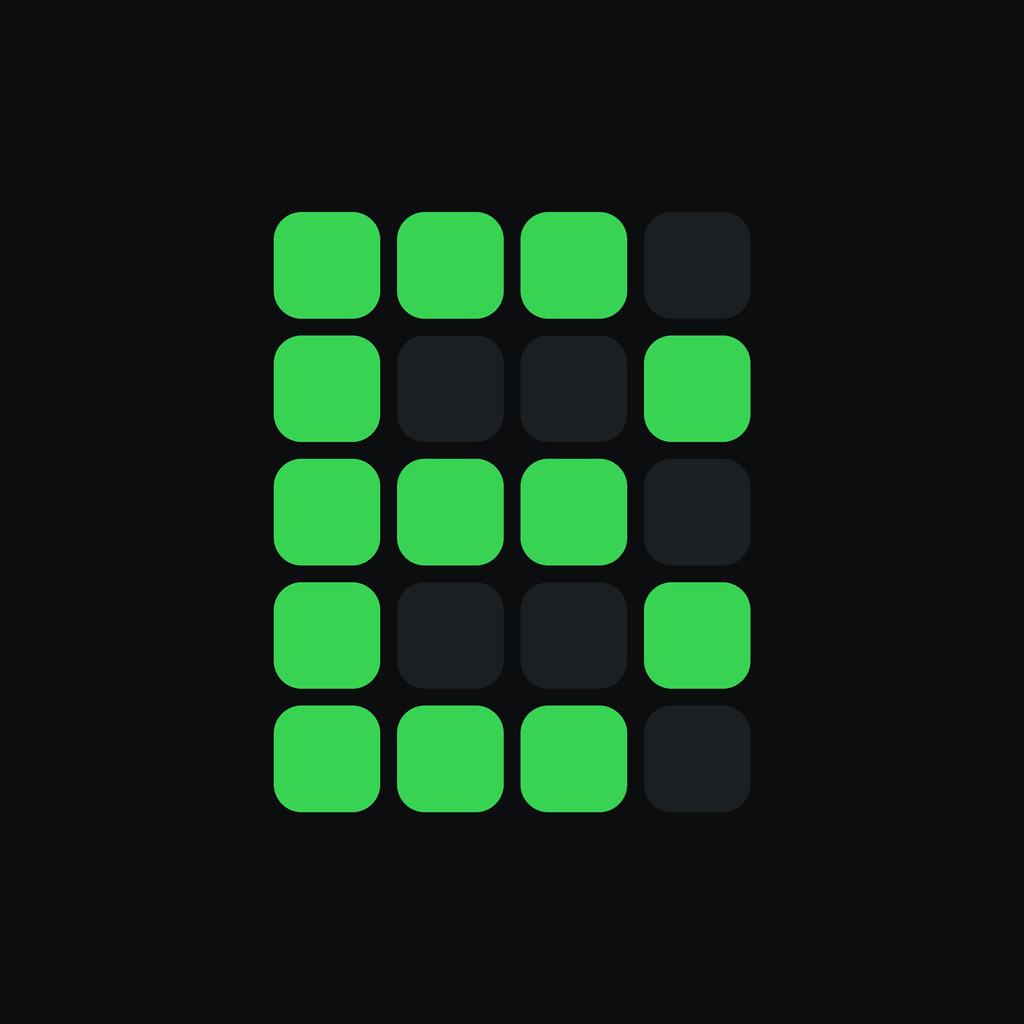
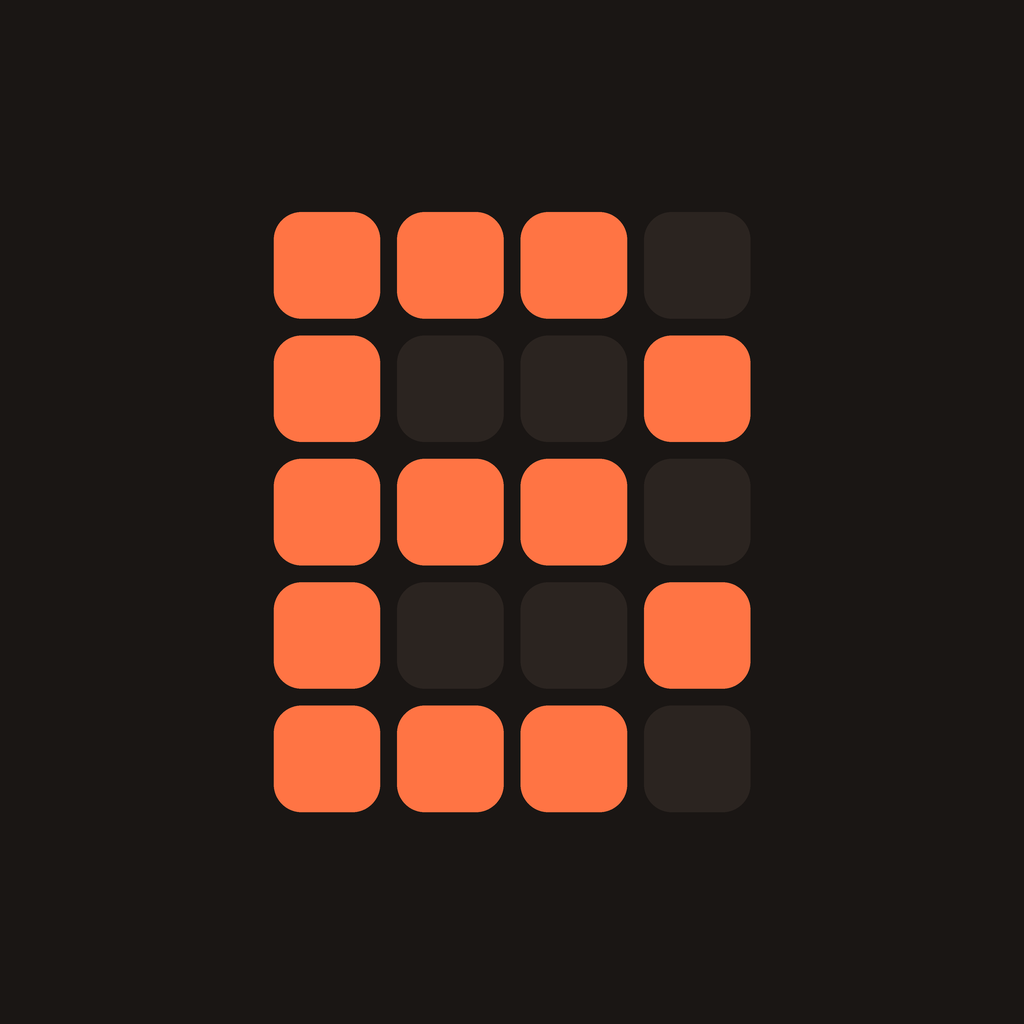
Switch to Ember warm palette

Changed region(s): [[0.25, 0.1875, 0.625, 0.8125], [0.625, 0.5625, 0.75, 0.6875], [0.625, 0.3125, 0.75, 0.4375]]

diff --git a/src/app/(tabs)/index.tsx b/src/app/(tabs)/index.tsx
@@ -86,7 +86,6 @@ function Overview({ data, period, onPeriod }: { data: Data; period: Period; onPe
             textColor={color.text}
             mutedColor={color.muted}
             gridColor={color.line}
-            accentColor={color.accent}
             modifiers={[fillMaxWidth(), height(224), padding(space.page, 24, space.page, 0)]}
           />
           <Row horizontalArrangement={{ spacedBy: 16 }} modifiers={[padding(space.page, 4, space.page, 0)]}>
@@ -113,12 +112,12 @@ function Overview({ data, period, onPeriod }: { data: Data; period: Period; onPe
             textColor={color.text}
             mutedColor={color.muted}
             gridColor={color.line}
-            accentColor={color.accent}
+            incomeColor={color.income}
             modifiers={[fillMaxWidth(), height(184), padding(space.page, 0, space.page, 0)]}
           />
           <Row horizontalArrangement={{ spacedBy: 16 }} modifiers={[padding(space.page, 4, space.page, 0)]}>
             <LegendKey label="Spent" />
-            <LegendKey label="Received" tint={color.accent} />
+            <LegendKey label="Received" tint={color.income} />
           </Row>
 
           <StatPlate a={a} />
@@ -274,13 +273,13 @@ function FlowSplit({ spent, received }: { spent: number; received: number }) {
     <>
       <SectionHead title="In and out" />
       <Row modifiers={[fillMaxWidth(), padding(space.page, 0, space.page, 0)]}>
-        <Figure label="In" value={`+${digits(received)}`} tone="accent" />
+        <Figure label="In" value={`+${digits(received)}`} tone="income" />
         <Figure label="Out" value={`−${digits(spent)}`} />
         <Figure label="Net" value={`${net >= 0 ? '+' : '−'}${digits(net)}`} />
       </Row>
       {spent + received > 0 && (
         <Row horizontalArrangement={{ spacedBy: 2 }} modifiers={[fillMaxWidth(), padding(space.page, 0, space.page, 0), height(6)]}>
-          {received > 0 && <Box modifiers={[weight(received), height(6), clip(Shapes.RoundedCorner(2)), background(color.accent)]} />}
+          {received > 0 && <Box modifiers={[weight(received), height(6), clip(Shapes.RoundedCorner(2)), background(color.income)]} />}
           {spent > 0 && <Box modifiers={[weight(spent), height(6), clip(Shapes.RoundedCorner(2)), background(color.text)]} />}
         </Row>
       )}
@@ -288,7 +287,7 @@ function FlowSplit({ spent, received }: { spent: number; received: number }) {
   );
 }
 
-function Figure({ label, value, tone = 'text' }: { label: string; value: string; tone?: 'text' | 'accent' }) {
+function Figure({ label, value, tone = 'text' }: { label: string; value: string; tone?: 'text' | 'income' }) {
   return (
     <Column modifiers={[weight(1), padding(0, 0, 0, 14)]} verticalArrangement={{ spacedBy: 2 }}>
       <Label size={12} weight="medium" tone="muted">
@@ -340,7 +339,7 @@ function WhereItCameFrom({ sources }: { sources: Share[] }) {
     <>
       <SectionHead title="Where it came from" />
       {sources.slice(0, 5).map((s, i) => (
-        <ShareRow key={s.key} rank={i + 1} swatch={color.accent} share={s} income />
+        <ShareRow key={s.key} rank={i + 1} swatch={color.income} share={s} income />
       ))}
     </>
   );
@@ -364,7 +363,7 @@ function ShareRow({ rank, swatch, share, income, onPress }: { rank: number; swat
           {`${Math.round(share.share * 100)}%  ·  ${share.count}×`}
         </Label>
       </Column>
-      <Label weight="medium" tone={income ? 'accent' : 'text'}>
+      <Label weight="medium" tone={income ? 'income' : 'text'}>
         {`${income ? '+' : ''}${digits(share.amount)}`}
       </Label>
     </Row>

diff --git a/modules/balance-core/android/src/main/java/expo/modules/balancecore/FlowChartView.kt b/modules/balance-core/android/src/main/java/expo/modules/balancecore/FlowChartView.kt
@@ -56,10 +56,10 @@ data class FlowChartProps(
   val readoutValues: List<String> = emptyList(),
   /** Slot shown when nobody is touching the chart. */
   val defaultIndex: Int = -1,
-  val textColor: String = "#E6EAEC",
-  val mutedColor: String = "#8F989E",
-  val gridColor: String = "#23282C",
-  val accentColor: String = "#39D353",
+  val textColor: String = "#F3EBE2",
+  val mutedColor: String = "#AC9F92",
+  val gridColor: String = "#3A322C",
+  val incomeColor: String = "#9BCB9F",
   val modifiers: ModifierList = emptyList()
 ) : ComposeProps
 
@@ -80,7 +80,7 @@ fun FunctionalComposableScope.FlowChartContent(props: FlowChartProps) {
   var touched by remember { mutableStateOf<Int?>(null) }
   val selected = (touched ?: props.defaultIndex).takeIf { it in 0 until count }
 
-  val colors = ChartColors(parse(props.textColor), parse(props.mutedColor), parse(props.gridColor), parse(props.accentColor))
+  val colors = ChartColors(parse(props.textColor), parse(props.mutedColor), parse(props.gridColor), parse(props.incomeColor))
   val style = ChartText(measurer, fonts.first, fonts.second)
 
   Canvas(
@@ -119,7 +119,7 @@ fun FunctionalComposableScope.FlowChartContent(props: FlowChartProps) {
   }
 }
 
-private data class ChartColors(val text: Color, val muted: Color, val grid: Color, val accent: Color)
+private data class ChartColors(val text: Color, val muted: Color, val grid: Color, val income: Color)
 private data class ChartText(val measurer: TextMeasurer, val medium: FontFamily, val bold: FontFamily)
 
 private fun slotCenter(width: Float, count: Int, i: Int) = (i + 0.5f) * (width / count)
@@ -216,7 +216,7 @@ private fun DrawScope.drawBars(
     props.income.getOrNull(i)?.takeIf { it > 0 }?.let { v ->
       val h = max(((v / inPeak).toFloat() * (bottom - baseline - 3.dp.toPx())), 2.dp.toPx())
       drawRoundRect(
-        if (focus) colors.accent else colors.accent.copy(alpha = 0.35f),
+        if (focus) colors.income else colors.income.copy(alpha = 0.35f),
         topLeft = Offset(x, baseline + 2.dp.toPx()),
         size = Size(barWidth, h),
         cornerRadius = radius

diff --git a/src/widgets/month-pulse.tsx b/src/widgets/month-pulse.tsx
@@ -14,23 +14,23 @@ const MonthPulse = (props: MonthPulseProps) => {
   'widget';
   return (
     // A full-size button so a tap anywhere opens the app (the "open:" target comes from patches/expo-widgets).
-    <Button {...({ target: 'open:projectbalance://' } as object)} modifiers={[fillMaxSize(), background('#0B0D0E'), cornerRadius(20)]}>
+    <Button {...({ target: 'open:projectbalance://' } as object)} modifiers={[fillMaxSize(), background('#1A1614'), cornerRadius(20)]}>
       <Column modifiers={[fillMaxSize(), paddingAll(14)]}>
-        <Text color="#8F989E" style={{ fontSize: 12 }}>
+        <Text color="#AC9F92" style={{ fontSize: 12 }}>
           {props.month}
         </Text>
         <Spacer modifiers={[height(6)]} />
-        <Text color="#E6EAEC" style={{ fontSize: 28, fontWeight: '700' }}>
+        <Text color="#F3EBE2" style={{ fontSize: 28, fontWeight: '700' }}>
           {props.spent}
         </Text>
-        <Text color="#8F989E" style={{ fontSize: 12 }}>
+        <Text color="#AC9F92" style={{ fontSize: 12 }}>
           spent
         </Text>
         <Spacer modifiers={[height(10)]} />
-        <Text color="#39D353" style={{ fontSize: 13, fontWeight: '500' }}>
+        <Text color="#9BCB9F" style={{ fontSize: 13, fontWeight: '500' }}>
           {`+${props.received} in`}
         </Text>
-        <Text color="#8F989E" style={{ fontSize: 13 }}>
+        <Text color="#AC9F92" style={{ fontSize: 13 }}>
           {`${props.today} today`}
         </Text>
       </Column>

diff --git a/src/widgets/spend-grid.tsx b/src/widgets/spend-grid.tsx
@@ -16,13 +16,13 @@ const SpendGrid = (props: SpendGridProps) => {
   'widget';
   return (
     // A full-size button so a tap anywhere opens the app (the "open:" target comes from patches/expo-widgets).
-    <Button {...({ target: 'open:projectbalance://' } as object)} modifiers={[fillMaxSize(), background('#0B0D0E'), cornerRadius(20)]}>
+    <Button {...({ target: 'open:projectbalance://' } as object)} modifiers={[fillMaxSize(), background('#1A1614'), cornerRadius(20)]}>
       <Column modifiers={[fillMaxSize(), paddingAll(14)]}>
         <Row>
-          <Text color="#E6EAEC" style={{ fontSize: 15, fontWeight: '700' }}>
+          <Text color="#F3EBE2" style={{ fontSize: 15, fontWeight: '700' }}>
             {props.total}
           </Text>
-          <Text color="#8F989E" style={{ fontSize: 13 }}>
+          <Text color="#AC9F92" style={{ fontSize: 13 }}>
             {` in ${props.weeks} weeks  ·  ${props.today} today`}
           </Text>
         </Row>
@@ -35,7 +35,7 @@ const SpendGrid = (props: SpendGridProps) => {
             modifiers={[fillMaxSize()]}
           />
         ) : (
-          <Text color="#8F989E" style={{ fontSize: 13 }}>
+          <Text color="#AC9F92" style={{ fontSize: 13 }}>
             Open Balance once to draw the grid.
           </Text>
         )}

diff --git a/src/components/tx-sheet.tsx b/src/components/tx-sheet.tsx
@@ -43,7 +43,7 @@ export function TxSheet({ tx, categories, onClose }: Props) {
           <Label size={15} weight="medium" tone="muted" maxLines={2}>
             {transactionTitle(tx)}
           </Label>
-          <Money value={`${tx.direction === 'in' ? '+' : ''}${digits(tx.amount)}`} size={38} tone={tx.direction === 'in' ? 'accent' : 'text'} />
+          <Money value={`${tx.direction === 'in' ? '+' : ''}${digits(tx.amount)}`} size={38} tone={tx.direction === 'in' ? 'income' : 'text'} />
           <Label size={13} tone="muted">
             {`${sourceLabel(tx.source)}  ·  ${shortDate(tx.occurredAt)}, ${time(tx.occurredAt)}`}
           </Label>
@@ -79,7 +79,7 @@ export function TxSheet({ tx, categories, onClose }: Props) {
           <Switch
             value={isTransfer}
             onCheckedChange={toggleTransfer}
-            colors={{ checkedTrackColor: color.accent, checkedThumbColor: color.bg }}
+            colors={{ checkedTrackColor: color.text, checkedThumbColor: color.bg }}
           />
         </Row>
 

diff --git a/src/theme.ts b/src/theme.ts
@@ -1,17 +1,18 @@
 import type { MaterialColors } from '@expo/ui/jetpack-compose';
 
-/** Instrument: cool graphite, numbers first, green only where money grows or spending heats up. */
+/** Ember: warm charcoal, orange only for spending heat, sage for money in, pink for errors. */
 export const color = {
-  bg: '#0B0D0E',
-  surface: '#131618',
-  raised: '#1B1F22',
-  line: '#23282C',
-  selected: '#2C3236',
-  text: '#E6EAEC',
-  muted: '#8F989E',
-  accent: '#39D353',
-  danger: '#F2867A',
-  heat: ['#1A1F23', '#0E4429', '#006D32', '#26A641', '#39D353'],
+  bg: '#1A1614',
+  surface: '#221D1A',
+  raised: '#2B2521',
+  line: '#3A322C',
+  selected: '#463C35',
+  text: '#F3EBE2',
+  muted: '#AC9F92',
+  accent: '#FF7444',
+  income: '#9BCB9F',
+  danger: '#F07AAE',
+  heat: ['#2B2420', '#5C2D1C', '#93401F', '#D2582B', '#FF7444'],
 } as const;
 
 /** Satoshi weights are registered as separate families by the expo-font plugin. */

diff --git a/src/app/(tabs)/activity.tsx b/src/app/(tabs)/activity.tsx
@@ -101,7 +101,7 @@ export default function ActivityScreen() {
           </Row>
           <Row horizontalArrangement={{ spacedBy: 16 }}>
             <Label size={14} weight="medium">{`−${digits(out)}`}</Label>
-            <Label size={14} weight="medium" tone="accent">{`+${digits(income)}`}</Label>
+            <Label size={14} weight="medium" tone="income">{`+${digits(income)}`}</Label>
           </Row>
         </Column>
 
@@ -162,7 +162,7 @@ function DayHeader({ day, max }: { day: DayItem; max: number }) {
           {day.label}
         </Label>
         {day.received > 0 && (
-          <Label size={13} weight="medium" tone="accent">
+          <Label size={13} weight="medium" tone="income">
             {`+${digits(day.received)}`}
           </Label>
         )}

diff --git a/modules/balance-core/android/src/main/java/expo/modules/balancecore/WidgetBridge.kt b/modules/balance-core/android/src/main/java/expo/modules/balancecore/WidgetBridge.kt
@@ -24,7 +24,7 @@ import java.util.Locale
 internal object WidgetBridge {
   private const val PREFS = "expo.modules.widgets"
   private const val GAP_RATIO = 0.25f
-  private val HEAT = intArrayOf(0xFF1A1F23.toInt(), 0xFF0E4429.toInt(), 0xFF006D32.toInt(), 0xFF26A641.toInt(), 0xFF39D353.toInt())
+  private val HEAT = intArrayOf(0xFF2B2420.toInt(), 0xFF5C2D1C.toInt(), 0xFF93401F.toInt(), 0xFFD2582B.toInt(), 0xFFFF7444.toInt())
 
   @Synchronized
   fun refresh(context: Context) {

diff --git a/src/components/tx-row.tsx b/src/components/tx-row.tsx
@@ -11,7 +11,7 @@ export function TxRow({ tx, pair, onPress }: { tx: Transaction; pair?: Transacti
   let title = transactionTitle(tx);
   let meta: string;
   let amount = signed(tx.amount, tx.direction);
-  let tone: 'text' | 'muted' | 'accent' = tx.direction === 'in' ? 'accent' : 'text';
+  let tone: 'text' | 'muted' | 'income' = tx.direction === 'in' ? 'income' : 'text';
 
   if (pair) {
     title = `${sourceLabel(tx.source)} → ${sourceLabel(pair.source)}`;

diff --git a/src/components/kit.tsx b/src/components/kit.tsx
@@ -33,12 +33,12 @@ export function Screen({ children, scroll = true }: { children: ReactNode; scrol
   );
 }
 
-type Tone = 'text' | 'muted' | 'accent' | 'danger';
+type Tone = 'text' | 'muted' | 'income' | 'danger';
 
 const toneColor: Record<Tone, string> = {
   text: color.text,
   muted: color.muted,
-  accent: color.accent,
+  income: color.income,
   danger: color.danger,
 };
 

diff --git a/modules/balance-core/src/FlowChart.tsx b/modules/balance-core/src/FlowChart.tsx
@@ -16,7 +16,7 @@ export type FlowChartProps = {
   textColor?: string;
   mutedColor?: string;
   gridColor?: string;
-  accentColor?: string;
+  incomeColor?: string;
   modifiers?: ModifierConfig[];
 };
 

diff --git a/scripts/make-widget-previews.py b/scripts/make-widget-previews.py
@@ -6,11 +6,11 @@ from PIL import Image, ImageDraw, ImageFont
 
 out = sys.argv[1]
 S = 3  # Drawn at xxhdpi; Android scales drawable-nodpi to the picker cell.
-BG = '#0B0D0E'
-TEXT = '#E6EAEC'
-MUTED = '#8F989E'
-ACCENT = '#39D353'
-HEAT = ['#1A1F23', '#0E4429', '#006D32', '#26A641', '#39D353']
+BG = '#1A1614'
+TEXT = '#F3EBE2'
+MUTED = '#AC9F92'
+ACCENT = '#9BCB9F'
+HEAT = ['#2B2420', '#5C2D1C', '#93401F', '#D2582B', '#FF7444']
 FONTS = 'assets/fonts/Satoshi-{}.otf'
 
 
